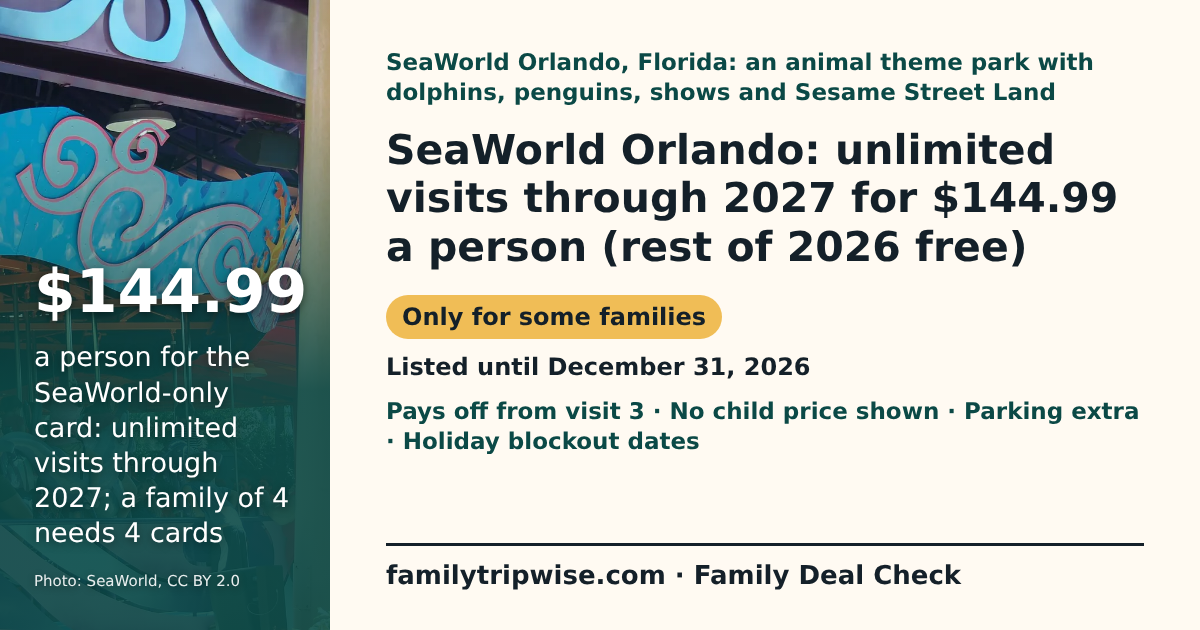
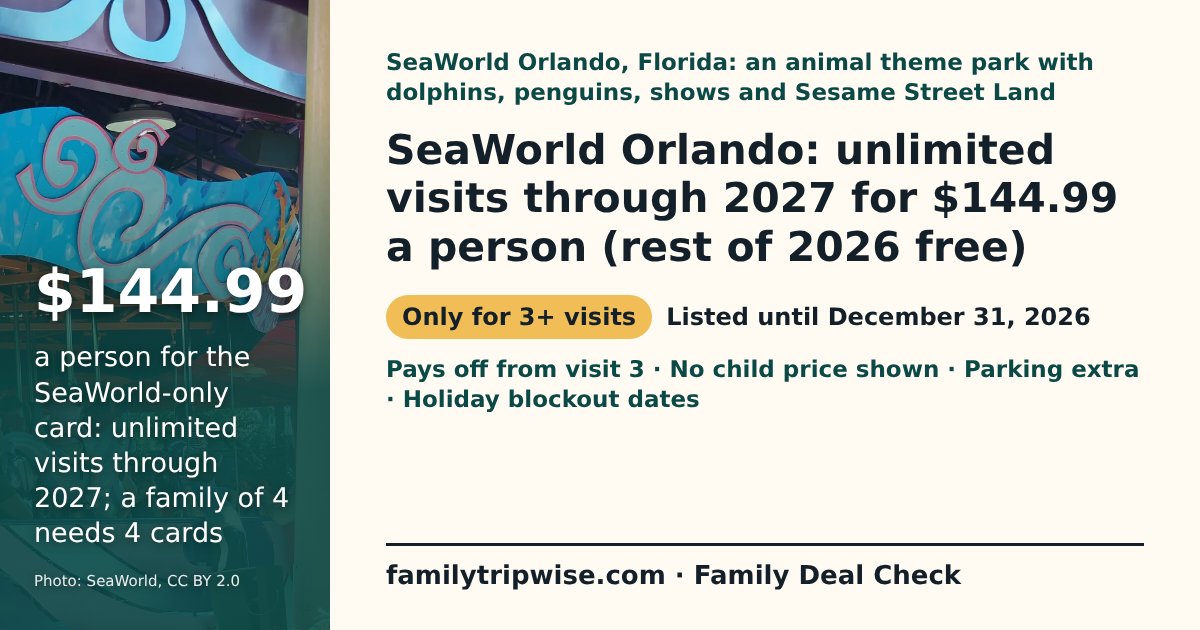
G11 v3: review cycle 1 (hub leads with priced savings, How we check moved below offers; SeaWorld pill; Prices capitalised; from $31.99)
Claude-Session: https://claude.ai/code/session_018uWk6wupTAjLwFLzHozN1E

Changed region(s): [[0.3083, 0.5429, 0.9558, 0.7238], [0.4317, 0.4524, 0.925, 0.5429]]

diff --git a/site/deals/index.html b/site/deals/index.html
@@ -30,9 +30,9 @@
           <p>What each offer really means for a family: which ages count, room or cabin occupancy, blackout dates, minimum stays and the fees the headline leaves out.</p>
         </div>
       </section>
-      <section class="container trust-panel" aria-label="How Family Deal Checks work">
-        <p><strong>How we check:</strong> every term below was read on the company's own offer page on the date shown, with a link to that page. We have not booked these offers. "For a family of 4" notes are our reading of those terms, not a quote or firsthand experience.</p>
-        <p>We show a family total only when we observed one on the official site for a named party and named dates. A "Without the deal · With the deal" line is an estimate we added up from dated published prices (and, where shown, a dated Google Hotels reading), not an observed total. Prices and availability change: check live before you book.</p>
+      <section class="container answer-box deals-savers" aria-label="Biggest savings we could price">
+        <p><strong>Biggest savings we could price</strong> (estimates for a family of 4, before tax, fees and parking):</p>
+        <ul class="fresh-upcoming"><li><a href="./legoland-new-york-2027-season-pass.html">LEGOLAND New York Resort</a>: save ≈ $192 (33%) over 3 visits on the cheapest online ticket dates</li><li><a href="./seaworld-orlando-2027-fun-card.html">SeaWorld Orlando</a>: save ≈ $140 (19%) over 3 visits on the cheapest online ticket dates</li><li><a href="./sesame-place-philadelphia-2027-season-pass.html">Sesame Place Philadelphia</a>: save ≈ $112 (22%) over 4 visits on the cheapest online ticket dates</li></ul>
       </section>
       <section id="deals-answer" class="container answer-box" aria-label="Closing soonest">
         <p><strong>Closing soonest:</strong></p>
@@ -147,6 +147,10 @@
           </article>
         </div>
         <p class="fresh-guide-link">Offers leave this list after their booking deadline. For dated family events, see <a href="../this-week/">this week's events and deadlines</a>.</p>
+      </section>
+      <section class="container trust-panel" aria-label="How Family Deal Checks work">
+        <p><strong>How we check:</strong> every term below was read on the company's own offer page on the date shown, with a link to that page. We have not booked these offers. "For a family of 4" notes are our reading of those terms, not a quote or firsthand experience.</p>
+        <p>We show a family total only when we observed one on the official site for a named party and named dates. A "Without the deal · With the deal" line is an estimate we added up from dated published prices (and, where shown, a dated Google Hotels reading), not an observed total. Prices and availability change: check live before you book.</p>
       </section>
     </main>
     <footer class="site-footer"><p>Family Tripwise uses research-based planning notes. Hotel fees, hours, policies, closures, and transit conditions can change, so verify important details before booking.</p><nav class="guide-directory" aria-label="All family guides"><h2>All family guides</h2><ul><li><span class="guide-directory-city">Chicago:</span> <a href="../things-to-do/chicago-with-kids.html">Things to do with kids</a><span aria-hidden="true"> · </span><a href="../things-to-do/chicago-with-teens.html">Chicago with teens</a><span aria-hidden="true"> · </span><a href="../where-to-stay/chicago-with-kids.html">Where to stay (areas)</a><span aria-hidden="true"> · </span><a href="../where-to-stay/chicago-family-hotels.html">Family hotels</a><span aria-hidden="true"> · </span><a href="../family-itinerary/chicago-with-kids.html">Family itinerary</a></li><li><span class="guide-directory-city">San Antonio:</span> <a href="../things-to-do/san-antonio-with-kids.html">Things to do with kids</a><span aria-hidden="true"> · </span><a href="../things-to-do/san-antonio-with-teens.html">San Antonio with teens</a><span aria-hidden="true"> · </span><a href="../where-to-stay/san-antonio-with-kids.html">Where to stay (areas)</a><span aria-hidden="true"> · </span><a href="../where-to-stay/san-antonio-family-hotels.html">Family hotels</a><span aria-hidden="true"> · </span><a href="../family-itinerary/san-antonio-with-kids.html">Family itinerary</a></li><li><span class="guide-directory-city">San Diego:</span> <a href="../things-to-do/san-diego-with-kids.html">Things to do with kids</a><span aria-hidden="true"> · </span><a href="../things-to-do/san-diego-with-toddlers.html">San Diego with toddlers</a><span aria-hidden="true"> · </span><a href="../things-to-do/san-diego-with-teens.html">San Diego with teens</a><span aria-hidden="true"> · </span><a href="../where-to-stay/san-diego-with-kids.html">Where to stay (areas)</a><span aria-hidden="true"> · </span><a href="../where-to-stay/san-diego-family-hotels.html">Family hotels</a><span aria-hidden="true"> · </span><a href="../family-itinerary/san-diego-with-kids.html">Family itinerary</a></li><li><span class="guide-directory-city">Las Vegas:</span> <a href="../things-to-do/las-vegas-with-kids.html">Things to do with kids</a><span aria-hidden="true"> · </span><a href="../things-to-do/las-vegas-with-teens.html">Las Vegas with teens</a><span aria-hidden="true"> · </span><a href="../where-to-stay/las-vegas-with-kids.html">Where to stay (areas)</a><span aria-hidden="true"> · </span><a href="../where-to-stay/las-vegas-family-hotels.html">Family hotels</a><span aria-hidden="true"> · </span><a href="../family-itinerary/las-vegas-with-kids.html">Family itinerary</a></li><li><span class="guide-directory-city">New York City:</span> <a href="../things-to-do/new-york-city-with-kids.html">Things to do with kids</a><span aria-hidden="true"> · </span><a href="../things-to-do/new-york-city-with-teens.html">New York City with teens</a><span aria-hidden="true"> · </span><a href="../where-to-stay/new-york-city-with-kids.html">Where to stay (areas)</a><span aria-hidden="true"> · </span><a href="../where-to-stay/new-york-city-family-hotels.html">Family hotels</a><span aria-hidden="true"> · </span><a href="../family-itinerary/new-york-city-with-kids.html">Family itinerary</a></li><li><span class="guide-directory-city">Orlando:</span> <a href="../things-to-do/orlando-with-kids.html">Things to do with kids</a><span aria-hidden="true"> · </span><a href="../where-to-stay/orlando-family-hotels.html">Family suite hotels</a></li><li><span class="guide-directory-city">Washington, DC:</span> <a href="../where-to-stay/washington-dc-family-hotels.html">Family hotels</a><span aria-hidden="true"> · </span><a href="../family-itinerary/washington-dc-with-kids.html">Family itinerary</a></li><li><span class="guide-directory-city">Boston:</span> <a href="../where-to-stay/boston-family-hotels.html">Family hotels</a><span aria-hidden="true"> · </span><a href="../family-itinerary/boston-with-kids.html">Family itinerary</a></li><li><span class="guide-directory-city">London:</span> <a href="../where-to-stay/london-family-hotels.html">Family hotels and apartments</a></li><li><span class="guide-directory-city">Cancun:</span> <a href="../where-to-stay/cancun-family-resorts.html">Family resorts</a></li><li><span class="guide-directory-city">Puerto Vallarta:</span> <a href="../where-to-stay/puerto-vallarta-family-resorts.html">Family resorts</a></li></ul></nav><p class="footer-links"><a href="../about.html">How our family travel guides are built</a><span aria-hidden="true"> · </span><a href="../privacy.html">Privacy</a><span aria-hidden="true"> · </span><a href="../terms.html">Terms</a></p></footer>

diff --git a/site/deals/sesame-place-philadelphia-2027-season-pass.html b/site/deals/sesame-place-philadelphia-2027-season-pass.html
@@ -28,7 +28,7 @@
             <h1>Sesame Place Philadelphia: a 2027 season pass from $99.99 a person, with unlimited visits for the rest of 2026 included</h1>
             <div class="spend-save" role="group" aria-label="What it costs a family of 4 with and without the deal"><p class="ss-title">Estimate for 2 adults and 2 kids aged 3 and 6, 4 visits on the cheapest online ticket dates</p>
               <dl class="ss-row"><div><dt>Without the deal</dt><dd>≈ $512</dd></div><div><dt>With the deal</dt><dd>≈ $400</dd></div><div class="ss-save"><dt>You save</dt><dd>≈ $112 <small>(22%)</small></dd></div></dl>
-              <p class="ss-basis">prices checked October 30, 2026. Taxes, fees and parking not counted.</p>
+              <p class="ss-basis">Prices checked October 30, 2026. Taxes, fees and parking not counted.</p>
               <p class="ss-verdict">From the 4th visit the Bronze pass is cheaper; for 1 to 3 visits, buy one-day tickets online instead.</p>
             </div>
             <ul class="deal-chips" aria-label="Key terms"><li class="deal-chip-verdict deal-verdict-only_for">Only for 4+ visits</li><li>Listed until November 6, 2026</li><li>Pays off from visit 4</li><li>Under 2 free</li><li>Bronze: no parking</li><li>No end date stated</li></ul>
@@ -44,7 +44,7 @@
         <p><strong>Not for:</strong> One to three visits: Sesame Place sells one-day tickets online from $31.99 a person, so up to three days on the cheapest dates cost less than a pass each.</p>
         <details class="ss-details">
           <summary>How we got these numbers</summary>
-          <div class="table-wrap"><table class="ss-table"><caption>Estimate for 2 adults and 2 kids aged 3 and 6, 4 visits on the cheapest online ticket dates: sums of published and observed prices, not a quote</caption><thead><tr><th scope="col">Part</th><th scope="col">Amount</th><th scope="col">Source</th></tr></thead><tbody><tr class="ss-side"><th scope="rowgroup" colspan="3">Without the deal ≈ $512: Four one-day tickets for each visit, bought online for the cheapest dates; no parking.</th></tr><tr><td>One-Day Ticket bought online, $31.99 a person aged 2+ (4 people × 4 visits)</td><td>$31.99 × 16 = $512</td><td><a href="https://sesameplace.com/philadelphia/tickets/">Sesame Place Philadelphia tickets page</a>, checked October 30, 2026</td></tr><tr class="ss-side"><th scope="rowgroup" colspan="3">With the deal ≈ $400: Four Bronze season passes: unlimited visits through January 2, 2028; no parking.</th></tr><tr><td>Bronze season pass, $99.99 a person aged 2+ (regular $175.50)</td><td>$99.99 × 4 = $400</td><td><a href="https://sesameplace.com/philadelphia/season-pass/">Sesame Place Philadelphia Season Pass page</a>, checked October 30, 2026</td></tr></tbody></table></div>
+          <div class="table-wrap"><table class="ss-table"><caption>Estimate for 2 adults and 2 kids aged 3 and 6, 4 visits on the cheapest online ticket dates: sums of published and observed prices, not a quote</caption><thead><tr><th scope="col">Part</th><th scope="col">Amount</th><th scope="col">Source</th></tr></thead><tbody><tr class="ss-side"><th scope="rowgroup" colspan="3">Without the deal ≈ $512: Four one-day tickets for each visit, bought online for the cheapest dates; no parking.</th></tr><tr><td>One-Day Ticket bought online, from $31.99 a person aged 2+ (4 people × 4 visits)</td><td>$31.99 × 16 = $512</td><td><a href="https://sesameplace.com/philadelphia/tickets/">Sesame Place Philadelphia tickets page</a>, checked October 30, 2026</td></tr><tr class="ss-side"><th scope="rowgroup" colspan="3">With the deal ≈ $400: Four Bronze season passes: unlimited visits through January 2, 2028; no parking.</th></tr><tr><td>Bronze season pass, $99.99 a person aged 2+ (regular $175.50)</td><td>$99.99 × 4 = $400</td><td><a href="https://sesameplace.com/philadelphia/season-pass/">Sesame Place Philadelphia Season Pass page</a>, checked October 30, 2026</td></tr></tbody></table></div>
           <p>Rough estimate, not a quote: one-day tickets cost $31.99 only on the cheapest dates (other dates cost more; the gate price is $110.99), so on pricier dates the pass saves more. Taxes, fees and parking are extra on both sides.</p>
           <p>Trip cost: the estimate counts passes or day tickets only; add taxes, fees, parking (price not shown for Bronze) and your drive to Langhorne.</p>
         </details>

diff --git a/site/deals/seaworld-orlando-2027-fun-card.html b/site/deals/seaworld-orlando-2027-fun-card.html
@@ -28,10 +28,10 @@
             <h1>SeaWorld Orlando: unlimited visits through 2027 for $144.99 a person (rest of 2026 free)</h1>
             <div class="spend-save" role="group" aria-label="What it costs a family of 4 with and without the deal"><p class="ss-title">Estimate for 2 adults and 2 kids aged 4 and 8, 3 visits on the cheapest online ticket dates</p>
               <dl class="ss-row"><div><dt>Without the deal</dt><dd>≈ $720</dd></div><div><dt>With the deal</dt><dd>≈ $580</dd></div><div class="ss-save"><dt>You save</dt><dd>≈ $140 <small>(19%)</small></dd></div></dl>
-              <p class="ss-basis">prices checked October 28 to 30, 2026. Tax and parking not counted.</p>
+              <p class="ss-basis">Prices checked October 28 to 30, 2026. Tax and parking not counted.</p>
               <p class="ss-verdict">From the 3rd visit the Fun Card is cheaper; for one or two visits, buy day tickets for your dates instead.</p>
             </div>
-            <ul class="deal-chips" aria-label="Key terms"><li class="deal-chip-verdict deal-verdict-only_for">Only for some families</li><li>Listed until December 31, 2026</li><li>Pays off from visit 3</li><li>No child price shown</li><li>Parking extra</li><li>Holiday blockout dates</li></ul>
+            <ul class="deal-chips" aria-label="Key terms"><li class="deal-chip-verdict deal-verdict-only_for">Only for 3+ visits</li><li>Listed until December 31, 2026</li><li>Pays off from visit 3</li><li>No child price shown</li><li>Parking extra</li><li>Holiday blockout dates</li></ul>
             
             <p class="contributor-credit">AI research contributor: <a href="../contributors/miles-rowan.html">Miles Rowan</a></p>
           </div>

diff --git a/site/deals/legoland-new-york-2027-season-pass.html b/site/deals/legoland-new-york-2027-season-pass.html
@@ -28,7 +28,7 @@
             <h1>LEGOLAND New York: a 2027 season pass from $99 a person, with the rest of 2026 included</h1>
             <div class="spend-save" role="group" aria-label="What it costs a family of 4 with and without the deal"><p class="ss-title">Estimate for 2 adults and 2 kids aged 4 and 7, 3 visits on the cheapest online ticket dates</p>
               <dl class="ss-row"><div><dt>Without the deal</dt><dd>≈ $588</dd></div><div><dt>With the deal</dt><dd>≈ $396</dd></div><div class="ss-save"><dt>You save</dt><dd>≈ $192 <small>(33%)</small></dd></div></dl>
-              <p class="ss-basis">prices checked October 30, 2026. Taxes, fees and parking not counted.</p>
+              <p class="ss-basis">Prices checked October 30, 2026. Taxes, fees and parking not counted.</p>
               <p class="ss-verdict">From the 3rd visit the Standard pass is cheaper, but it has 52 blockout dates; for 1 or 2 visits, buy day tickets online.</p>
             </div>
             <ul class="deal-chips" aria-label="Key terms"><li class="deal-chip-verdict deal-verdict-only_for">Only for 3+ visits</li><li>Listed until November 6, 2026</li><li>Pays off from visit 3</li><li>60 miles from NYC</li><li>Standard: 52 blockout dates</li><li>Preferred $129 adds parking</li></ul>
